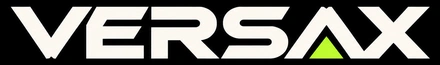
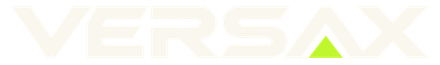
bugs fixed

diff --git a/src/lib/supabase/config.ts b/src/lib/supabase/config.ts
@@ -1,5 +1,15 @@
 export type AuthConfig = { url: string; key: string; origin: string };
-type Environment = Partial<Record<"NEXT_PUBLIC_SUPABASE_URL" | "NEXT_PUBLIC_SUPABASE_PUBLISHABLE_KEY" | "NEXT_PUBLIC_SUPABASE_ANON_KEY" | "APP_ORIGIN", string>>;
+type Environment = Partial<Record<
+  "NEXT_PUBLIC_SUPABASE_URL" | "NEXT_PUBLIC_SUPABASE_PUBLISHABLE_KEY" | "NEXT_PUBLIC_SUPABASE_ANON_KEY" |
+  "APP_ORIGIN" | "VERCEL_ENV" | "VERCEL_PROJECT_PRODUCTION_URL", string
+>>;
+
+const versaxProduction = {
+  host: "versax-six.vercel.app",
+  url: "https://xevzbtivteugbqbmmtyz.supabase.co",
+  // The low-privilege publishable key identifies the app. Supabase RLS still applies.
+  key: "sb_publishable_3hRrDeqwfGm3a9SrCreskA__zCoVf6H",
+};
 
 function isPublicKey(key: string): boolean {
   if (/^sb_publishable_[A-Za-z0-9_-]+$/.test(key)) return true;
@@ -11,11 +21,19 @@ function isPublicKey(key: string): boolean {
 }
 
 export function readAuthConfig(env: Environment): AuthConfig | null {
-  const key = env.NEXT_PUBLIC_SUPABASE_PUBLISHABLE_KEY || env.NEXT_PUBLIC_SUPABASE_ANON_KEY || "";
-  if (!key || !isPublicKey(key) || !env.APP_ORIGIN || !env.NEXT_PUBLIC_SUPABASE_URL) return null;
+  const onVercelProduction = env.VERCEL_ENV === "production";
+  const deployment = onVercelProduction && env.VERCEL_PROJECT_PRODUCTION_URL === versaxProduction.host
+    ? versaxProduction : undefined;
+  const urlValue = env.NEXT_PUBLIC_SUPABASE_URL || deployment?.url;
+  const originValue = env.APP_ORIGIN || (deployment && `https://${deployment.host}`);
+  if (!urlValue || !originValue) return null;
   try {
-    const url = new URL(env.NEXT_PUBLIC_SUPABASE_URL);
-    const origin = new URL(env.APP_ORIGIN);
+    const url = new URL(urlValue);
+    const origin = new URL(originValue);
+    const defaultKey = deployment && url.origin === deployment.url ? deployment.key : undefined;
+    const key = env.NEXT_PUBLIC_SUPABASE_PUBLISHABLE_KEY || env.NEXT_PUBLIC_SUPABASE_ANON_KEY || defaultKey;
+    if (!key || !isPublicKey(key)) return null;
+    if (onVercelProduction && origin.protocol !== "https:") return null;
     const local = (u: URL) => ["localhost", "127.0.0.1", "[::1]"].includes(u.hostname);
     for (const value of [url, origin]) {
       if (value.username || value.password || value.search || value.hash || value.pathname !== "/") return null;
@@ -26,10 +44,13 @@ export function readAuthConfig(env: Environment): AuthConfig | null {
 }
 
 export function getAuthConfig(): AuthConfig | null {
+  const env = process.env;
   return readAuthConfig({
-    NEXT_PUBLIC_SUPABASE_URL: process.env.NEXT_PUBLIC_SUPABASE_URL,
-    NEXT_PUBLIC_SUPABASE_PUBLISHABLE_KEY: process.env.NEXT_PUBLIC_SUPABASE_PUBLISHABLE_KEY,
-    NEXT_PUBLIC_SUPABASE_ANON_KEY: process.env.NEXT_PUBLIC_SUPABASE_ANON_KEY,
-    APP_ORIGIN: process.env.APP_ORIGIN,
+    NEXT_PUBLIC_SUPABASE_URL: env.NEXT_PUBLIC_SUPABASE_URL,
+    NEXT_PUBLIC_SUPABASE_PUBLISHABLE_KEY: env.NEXT_PUBLIC_SUPABASE_PUBLISHABLE_KEY,
+    NEXT_PUBLIC_SUPABASE_ANON_KEY: env.NEXT_PUBLIC_SUPABASE_ANON_KEY,
+    APP_ORIGIN: env.APP_ORIGIN,
+    VERCEL_ENV: env.VERCEL_ENV,
+    VERCEL_PROJECT_PRODUCTION_URL: env.VERCEL_PROJECT_PRODUCTION_URL,
   });
 }

diff --git a/tests/e2e/marketplace.spec.ts b/tests/e2e/marketplace.spec.ts
@@ -227,12 +227,33 @@ test("VERSAX branding appears in both storefront layouts", async ({ page }, test
   const smallViewport = page.viewportSize()!.width <= 660;
   await expect.poll(() => headerLogo.evaluate((img: HTMLImageElement) => new URL(img.currentSrc).pathname))
     .toBe(smallViewport ? "/images/brand/versax-compact.webp" : "/images/brand/versax.webp");
-  await expect(page.locator("footer").getByRole("img", { name: "VERSAX", exact: true })).toBeVisible();
+  const footerLogo = page.locator("footer").getByRole("img", { name: "VERSAX", exact: true });
+  await expect(footerLogo).toBeVisible();
+  for (const logo of [headerLogo, footerLogo]) {
+    await logo.scrollIntoViewIfNeeded();
+    const alpha = await logo.evaluate(async (img: HTMLImageElement) => {
+      await img.decode();
+      const canvas = document.createElement("canvas");
+      canvas.width = img.naturalWidth;
+      canvas.height = img.naturalHeight;
+      const context = canvas.getContext("2d")!;
+      context.drawImage(img, 0, 0);
+      return context.getImageData(0, 0, 1, 1).data[3];
+    });
+    expect(alpha).toBe(0);
+  }
+  const theme = page.getByRole("combobox", { name: "Theme", exact: true });
+  await theme.selectOption("light");
+  await expect(headerLogo).not.toHaveCSS("filter", "none");
+  await expect(footerLogo).toHaveCSS("filter", "none");
+  await page.screenshot({ path: testInfo.outputPath("versax-light.png") });
+  await theme.selectOption("dark");
+  await expect(headerLogo).toHaveCSS("filter", "none");
+  await page.screenshot({ path: testInfo.outputPath("versax-dark.png") });
   await expect(page.locator('link[rel="icon"][href^="/icon.png"]').first()).toHaveCount(1);
   for (const path of ["/favicon.ico", "/icon.png"]) {
     expect((await page.request.get(path)).ok()).toBe(true);
   }
-  await page.screenshot({ path: testInfo.outputPath("versax-home.png") });
   await page.goto("/savat");
   await expect(page).toHaveTitle(/VERSAX/);
   await expect(page.locator("header").getByRole("img", { name: "VERSAX", exact: true })).toBeVisible();

diff --git a/src/lib/auth/validation.test.ts b/src/lib/auth/validation.test.ts
@@ -44,6 +44,30 @@ describe("public Supabase configuration", () => {
     expect(readAuthConfig({ ...base, NEXT_PUBLIC_SUPABASE_PUBLISHABLE_KEY: "sb_secret_do_not_expose" })).toBeNull();
     expect(readAuthConfig({ ...base, NEXT_PUBLIC_SUPABASE_PUBLISHABLE_KEY: "" })).toBeNull();
   });
+
+  const versaxDeployment = { VERCEL_ENV: "production", VERCEL_PROJECT_PRODUCTION_URL: "versax-six.vercel.app" } as const;
+
+  it("connects the VERSAX production deployment to the dedicated project with no dashboard overrides", () => {
+    expect(readAuthConfig(versaxDeployment)).toEqual({
+      origin: "https://versax-six.vercel.app",
+      url: "https://xevzbtivteugbqbmmtyz.supabase.co",
+      key: expect.stringMatching(/^sb_publishable_/),
+    });
+  });
+
+  it("uses explicit configuration and limits the production defaults to VERSAX", () => {
+    const explicit = { ...base, APP_ORIGIN: "https://market.example.test" };
+    expect(readAuthConfig({ ...versaxDeployment, ...explicit })).toEqual({
+      origin: explicit.APP_ORIGIN,
+      url: base.NEXT_PUBLIC_SUPABASE_URL,
+      key: base.NEXT_PUBLIC_SUPABASE_PUBLISHABLE_KEY,
+    });
+    expect(readAuthConfig({ ...versaxDeployment, VERCEL_ENV: "preview" })).toBeNull();
+    expect(readAuthConfig({ ...versaxDeployment, VERCEL_PROJECT_PRODUCTION_URL: "another-site.vercel.app" })).toBeNull();
+    expect(readAuthConfig({ ...versaxDeployment, NEXT_PUBLIC_SUPABASE_URL: "https://another-project.supabase.co" })).toBeNull();
+    expect(readAuthConfig({ ...versaxDeployment, APP_ORIGIN: "http://localhost:3000" })).toBeNull();
+    expect(readAuthConfig({ ...versaxDeployment, NEXT_PUBLIC_SUPABASE_PUBLISHABLE_KEY: "sb_secret_invalid" })).toBeNull();
+  });
 });
 
 it("preserves a valid order or checkout destination through authentication", () => {

diff --git a/src/app/globals.css b/src/app/globals.css
@@ -10,6 +10,7 @@
   --brand-plate: #030303;
   --brand-accent: #c0ff2d;
   --brand-ink-accent: #426000;
+  --brand-logo-filter: brightness(0.28);
   --background: #f8f7f4;
   --foreground: #262b24;
   --card: #fff;
@@ -34,6 +35,7 @@
   --font-display: "Cormorant Garamond", Georgia, serif;
 }
 .dark {
+  --brand-logo-filter: none;
   --background: #151817;
   --foreground: #f4f3ef;
   --card: #202422;
@@ -191,7 +193,7 @@ img {
   flex-shrink: 0;
 }
 .brand-logo { display: block; width: 100%; }
-.brand-logo img { display: block; width: 100%; height: auto; }
+.brand-logo img { display: block; width: 100%; height: auto; filter: var(--brand-logo-filter); }
 .desktop-nav {
   display: flex;
   gap: 30px;

diff --git a/src/components/marketplace/styles.css b/src/components/marketplace/styles.css
@@ -172,7 +172,7 @@
 .mp-home-about-note { max-width: 85ch; margin-top: 1.25rem; }
 .mp-feed-status { padding-block: 1.125rem; border-top: var(--editorial-divider); }
 
-.mp-footer { background: var(--brand-plate); color: var(--editorial-paper); }
+.mp-footer { --brand-logo-filter: none; background: var(--brand-plate); color: var(--editorial-paper); }
 .mp-footer-inner {
   display: grid;
   grid-template-columns: minmax(0, 2fr) repeat(2, minmax(0, 1fr));

diff --git a/src/components/marketplace/tokens.css b/src/components/marketplace/tokens.css
@@ -44,6 +44,7 @@
 }
 
 .dark .mp, .mp[data-world="cs2"][data-preference="system"], .dark body:has(.storefront-commerce) {
+  --brand-logo-filter: none;
   --background: var(--editorial-dark);
   --foreground: #f8f8f6;
   --card: #202020;

diff --git a/PROJECT_PROGRESS.md b/PROJECT_PROGRESS.md
@@ -1,5 +1,30 @@
 # Project progress
 
+## VERSAX account deployment and transparent logo — 2026-11-21
+
+The deployed VERSAX login and registration routes showed the unavailable-account
+page. The production configuration now defaults to the dedicated Supabase project
+`xevzbtivteugbqbmmtyz` and `https://versax-six.vercel.app` when Vercel identifies
+that production deployment. Explicit environment settings take precedence.
+[Setup and environment overrides](docs/ACCOUNTS_SETUP.md)
+
+The desktop lockup and compact wordmark now have transparent backgrounds.
+The shared logo styles use dark ink on light surfaces and cream and lime on
+dark surfaces, including the marketplace footer and the CS2 system theme.
+The original artwork provided the lettering and monogram.
+
+Strict TypeScript, the production build and all 150 Vitest tests passed.
+ESLint completed with four existing unused-parameter warnings. All 27 targeted
+Playwright checks passed across desktop, tablet and mobile Chromium. Reviewed
+the desktop and mobile mastheads in both themes. On a local
+production build with only the Vercel deployment identifiers set, Chromium
+registered a test account against the dedicated Supabase project, verified the
+Secure and HTTP-only session cookie, signed out, signed in again and reloaded
+the authenticated account. A prior diagnostic run also created a designated
+test account. No Supabase settings, privileges or schema were altered. The
+updated build has yet to be deployed to Vercel. Email delivery and recovery
+were outside the smoke test. Logs and captures: `/tmp/versax-auth-logo.APmWAs/`.
+
 ## VERSAX brand rollout — 2026-11-21
 
 The owner selected VERSAX and supplied the logo. The marketplace and sample

diff --git a/docs/ACCOUNTS_SETUP.md b/docs/ACCOUNTS_SETUP.md
@@ -16,9 +16,15 @@ Fill `NEXT_PUBLIC_SUPABASE_PUBLISHABLE_KEY` with the project's publishable key.
 No service-role key, database password or management token belongs in browser
 variables, Git, chat, screenshots or application logs.
 
-The application validates public credentials and requires `APP_ORIGIN`; incomplete
-configuration yields an unavailable-account page while browsing continues.
-Restart the local server after changing environment settings.
+The VERSAX production deployment on `versax-six.vercel.app` has defaults for
+the dedicated project's URL and publishable key and its HTTPS origin. The app
+recognizes this deployment through Vercel's `VERCEL_ENV` and
+`VERCEL_PROJECT_PRODUCTION_URL` system environment variables. Explicit settings
+take precedence and can be set for key rotation or a domain change. For local,
+preview or other deployments, set the project's URL, publishable key and
+`APP_ORIGIN` explicitly. Incomplete configuration yields an unavailable-account
+page while browsing continues. Restart the local server or redeploy after
+changing environment settings.
 
 ## Apply the migration
 

diff --git a/docs/ASSETS.md b/docs/ASSETS.md
@@ -44,6 +44,7 @@ Display type uses the locally bundled [Oswald variable font license](licenses/Os
 ## VERSAX logo
 
 The owner supplied the VERSAX logo as a PNG. The full lockup and compact
-wordmark are locally served as optimized WebP files in
-`public/images/brand/`. The favicon and PNG browser icon use the monogram
-from the same source artwork.
+wordmark are served as transparent WebP files in `public/images/brand/`.
+They use the original lettering and monogram, with an ink treatment on light
+surfaces and cream and lime on dark surfaces. The favicon and PNG browser icon
+use the monogram from the same source artwork.
